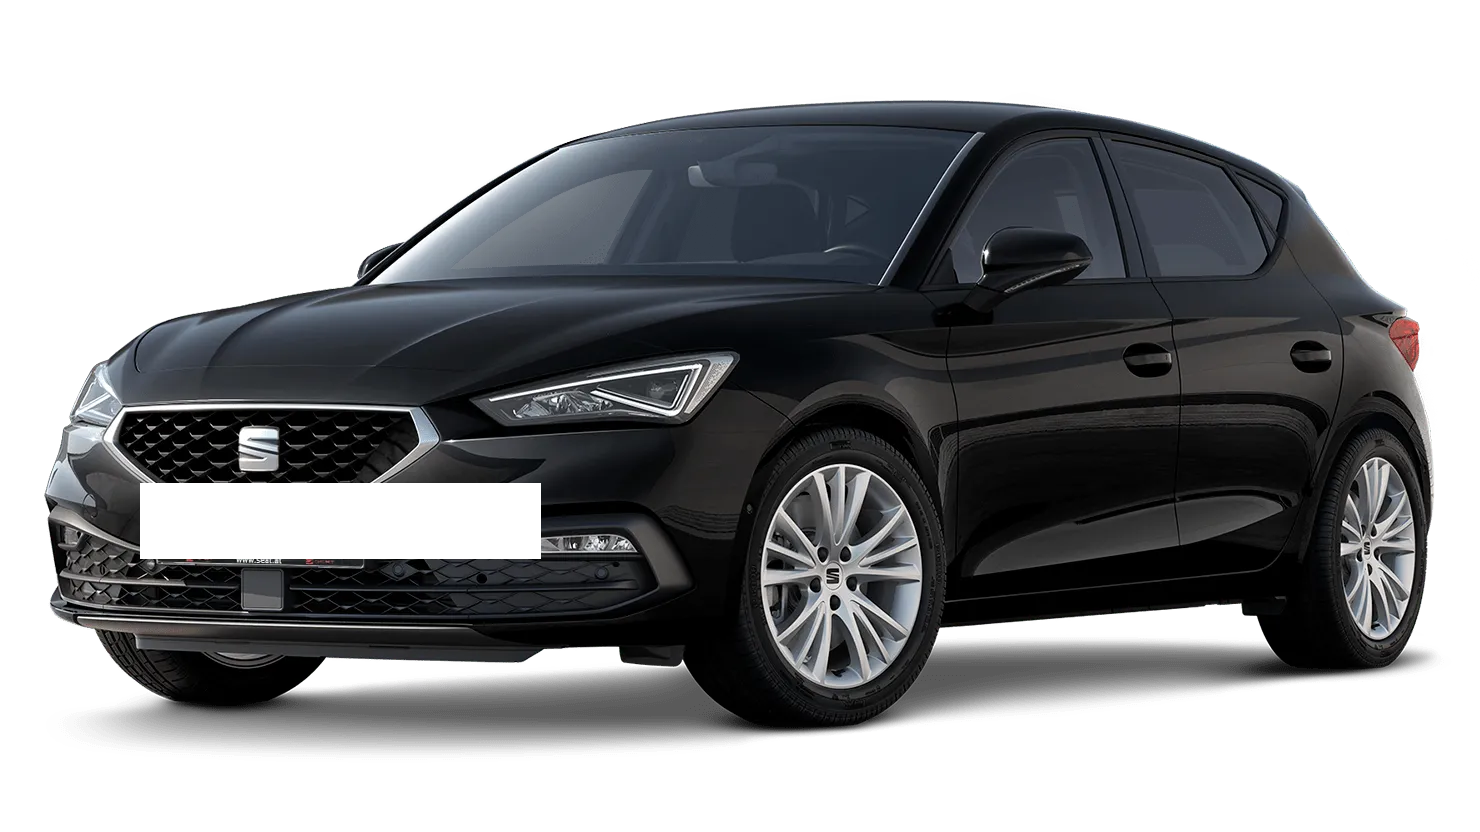
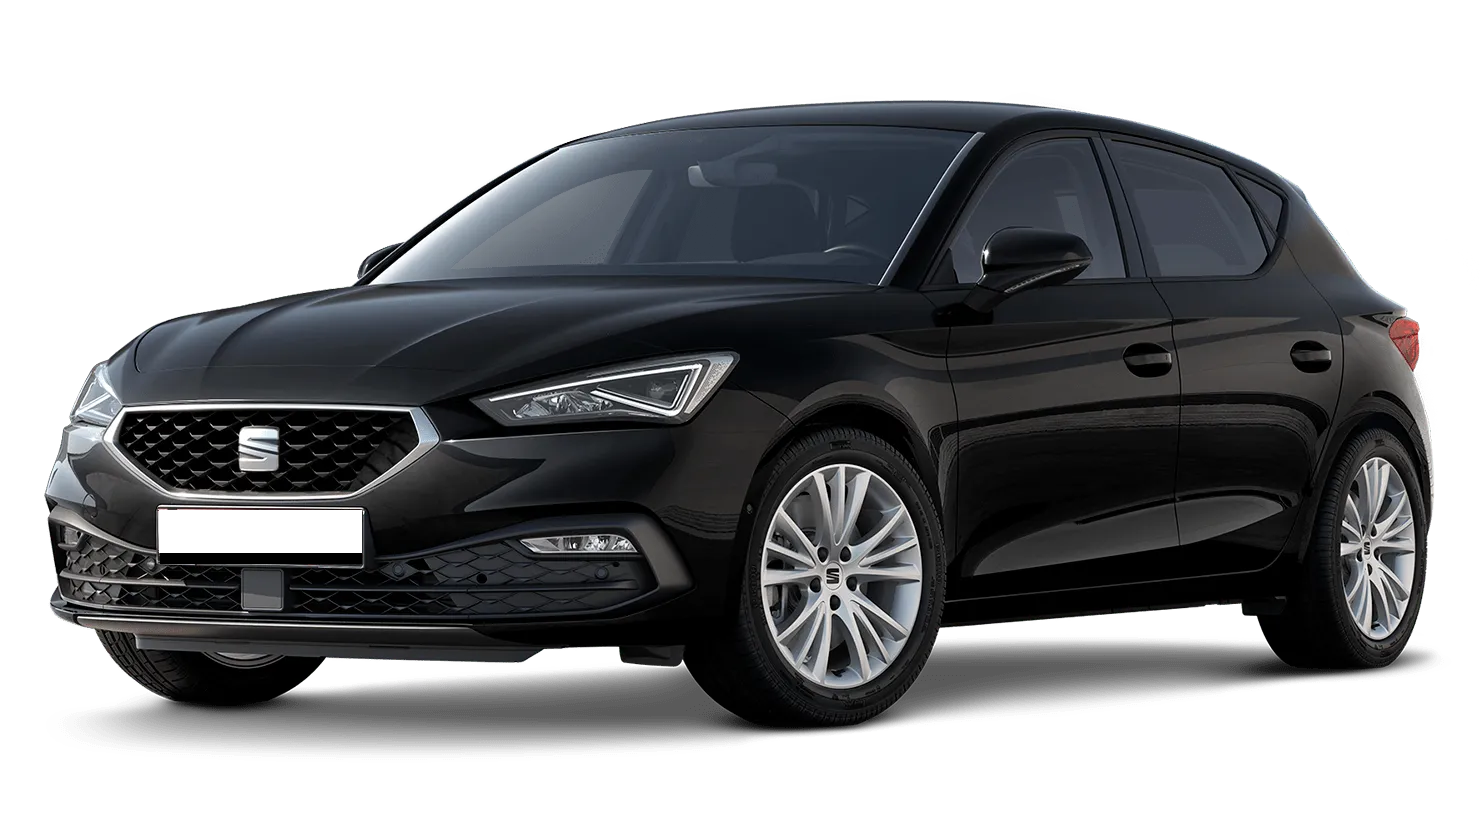
update: Fahrzeugbild erneuert + Cache-Buster für img-Tags

Changed region(s): [[0.0932, 0.5625, 0.373, 0.6875]]

diff --git a/index.html b/index.html
@@ -100,7 +100,7 @@
     <div id="vehicle-card" class="mx-3 mb-4 bg-slate-50 rounded-2xl border border-slate-100 overflow-hidden">
       <!-- Fahrzeugbild -->
       <div class="bg-white px-2 pt-2 pb-0">
-        <img src="img/seat-leon-mk4.png" alt="Seat Leon" class="w-full h-auto" style="max-height:90px;object-fit:contain;object-position:center"/>
+        <img src="img/seat-leon-mk4.png?v=1780870297" alt="Seat Leon" class="w-full h-auto" style="max-height:90px;object-fit:contain;object-position:center"/>
       </div>
       <!-- Fahrzeugdaten -->
       <div class="p-3">
@@ -165,7 +165,7 @@
         <!-- ── Dashboard-Header ───────────────────────────────── -->
         <div class="flex items-center justify-between">
           <div class="flex items-center gap-3">
-            <img src="img/seat-leon-mk4.png" alt="Seat Leon" class="h-14 w-auto hidden sm:block" style="object-fit:contain">
+            <img src="img/seat-leon-mk4.png?v=1780870297" alt="Seat Leon" class="h-14 w-auto hidden sm:block" style="object-fit:contain">
             <div>
               <h1 class="text-2xl font-bold text-gray-900">Auto Dashboard</h1>
               <p id="header-sub" class="text-sm text-gray-400 mt-0.5">Seat Leon</p>
